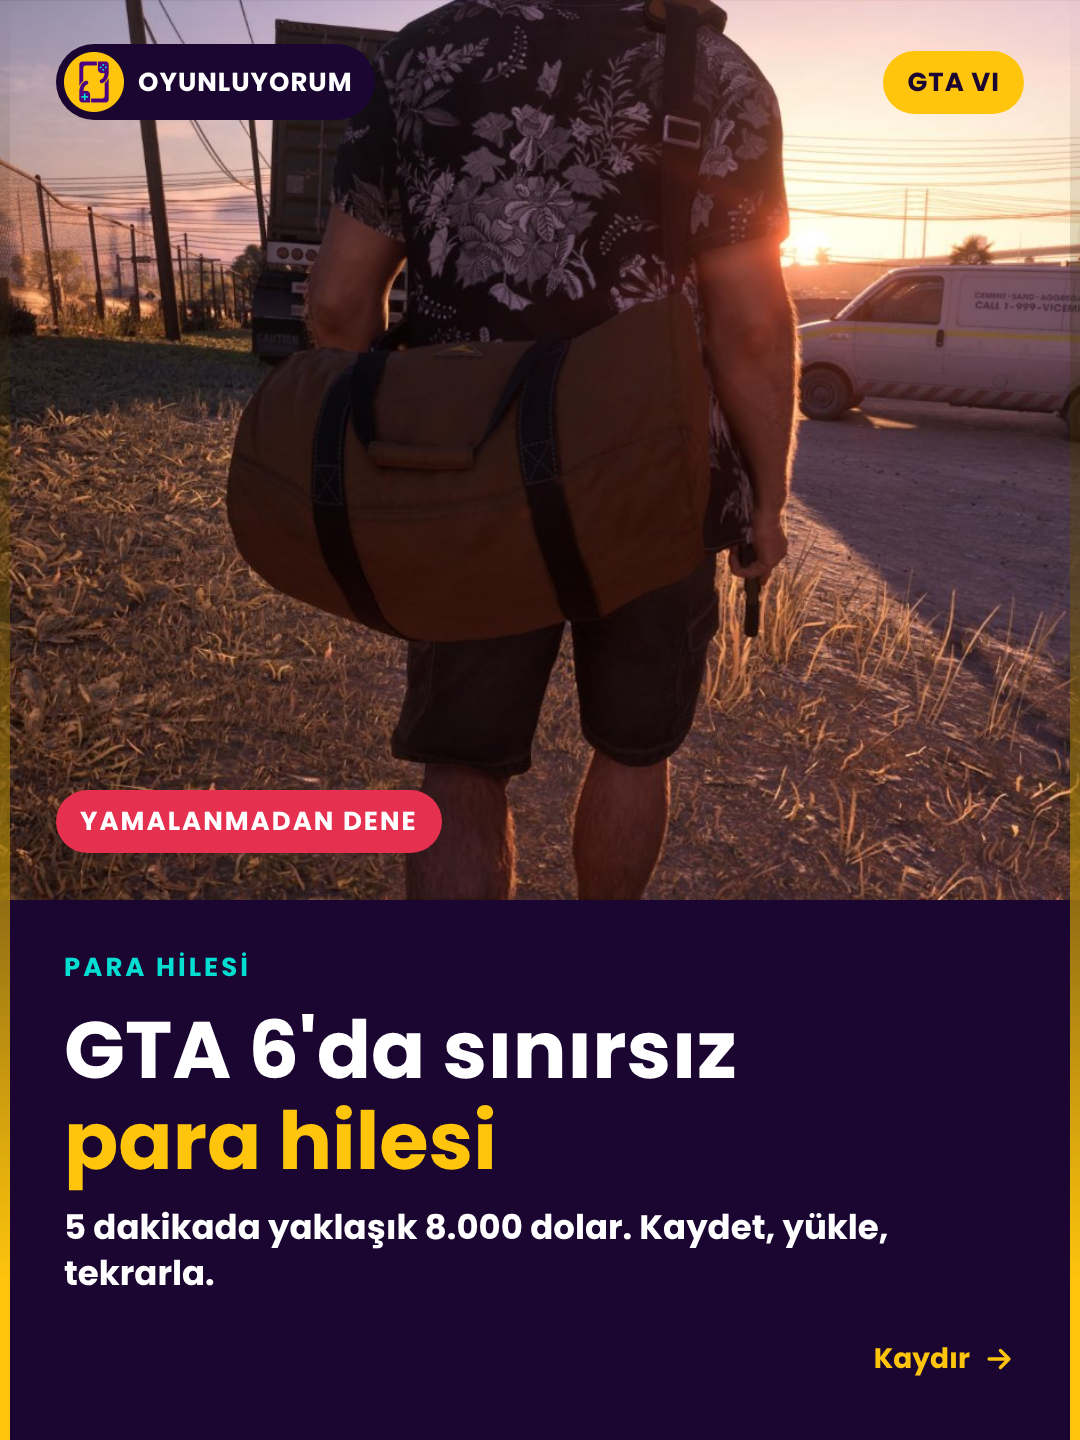
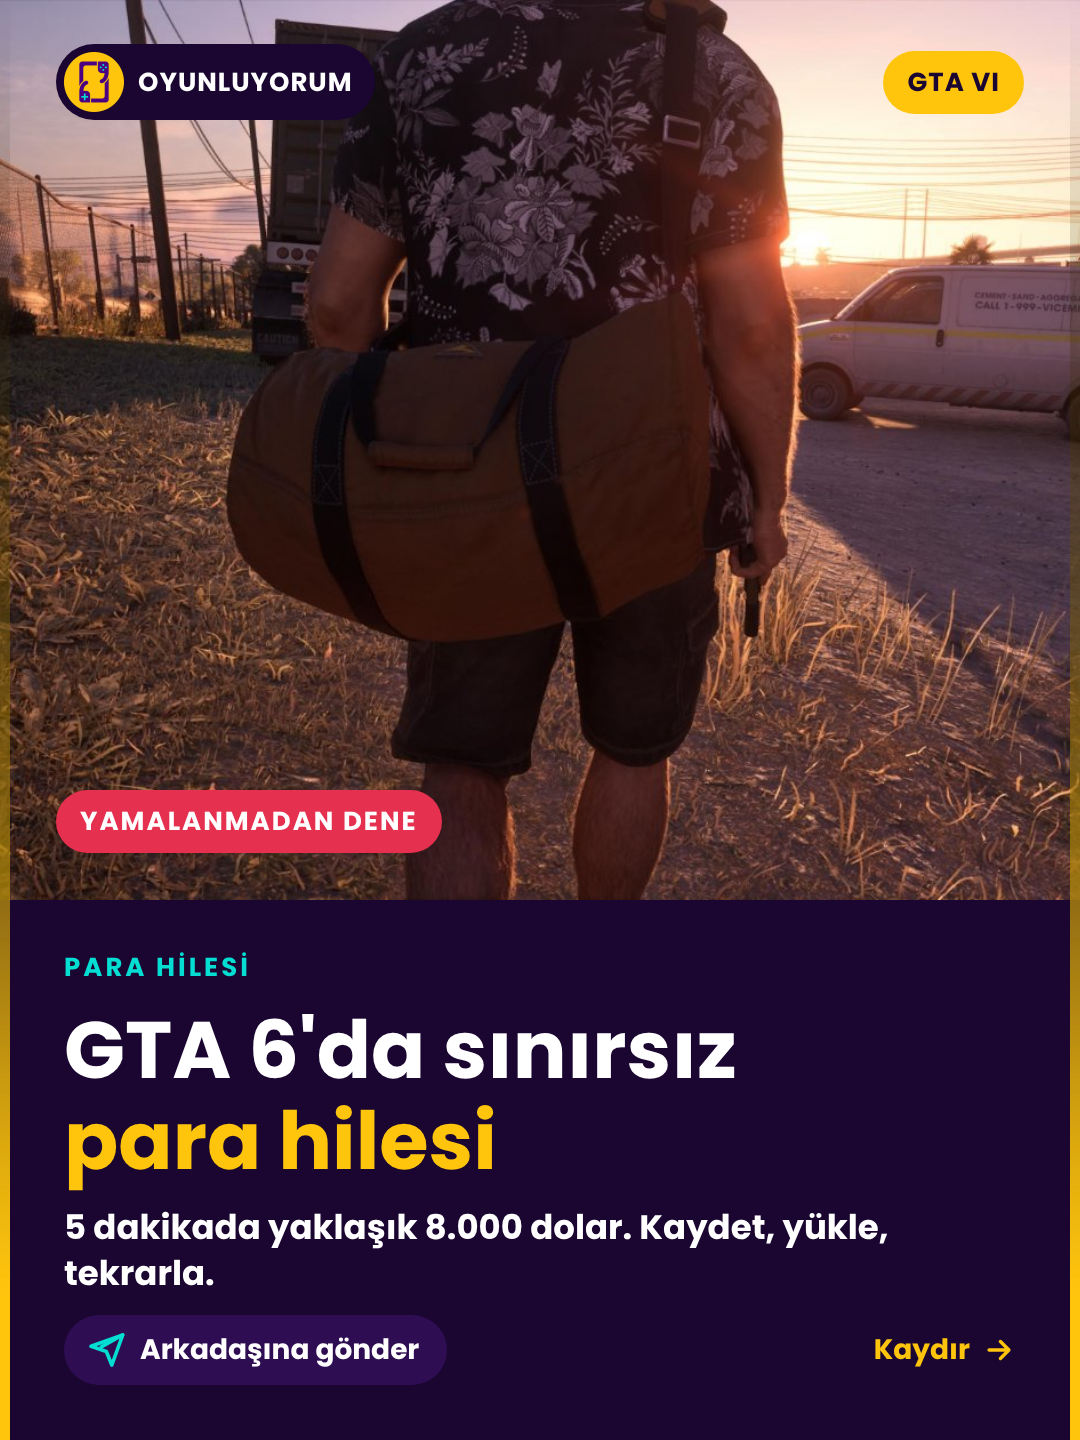
Para hilesi kapağına arkadaşına gönder çağrısı
Claude-Session: https://claude.ai/code/session_01Cfy9VgEXWVL5ta7MT2PpLs

Changed region(s): [[0.0611, 0.9062, 0.4278, 0.9688], [0.7944, 0.9062, 0.8861, 0.9688], [0.9167, 0.9375, 0.9472, 0.9688]]

diff --git a/posts/2026-11-19-gta6-para-hilesi/aciklama.md b/posts/2026-11-19-gta6-para-hilesi/aciklama.md
@@ -10,7 +10,7 @@ GTA 6'da para sıkıntısına son 💸 Rockstar yamalamadan önce bunu bir dene.
 
 Kırmızı ahırdan iki çantayı doldur, kaydet, kaydı yükle, ganimet yeniden çıksın. 4 çanta olunca Brian'a teslim et, 5 dakikada yaklaşık 8.000 dolar. Adım adım anlattık 👇
 
-Kaydet, yamalanmadan dene.
+Kaydet, yamalanmadan dene. Parası hiç yetmeyen arkadaşına da gönder 📩
 
 (Kaynak ve görseller: Game Rant)
 
